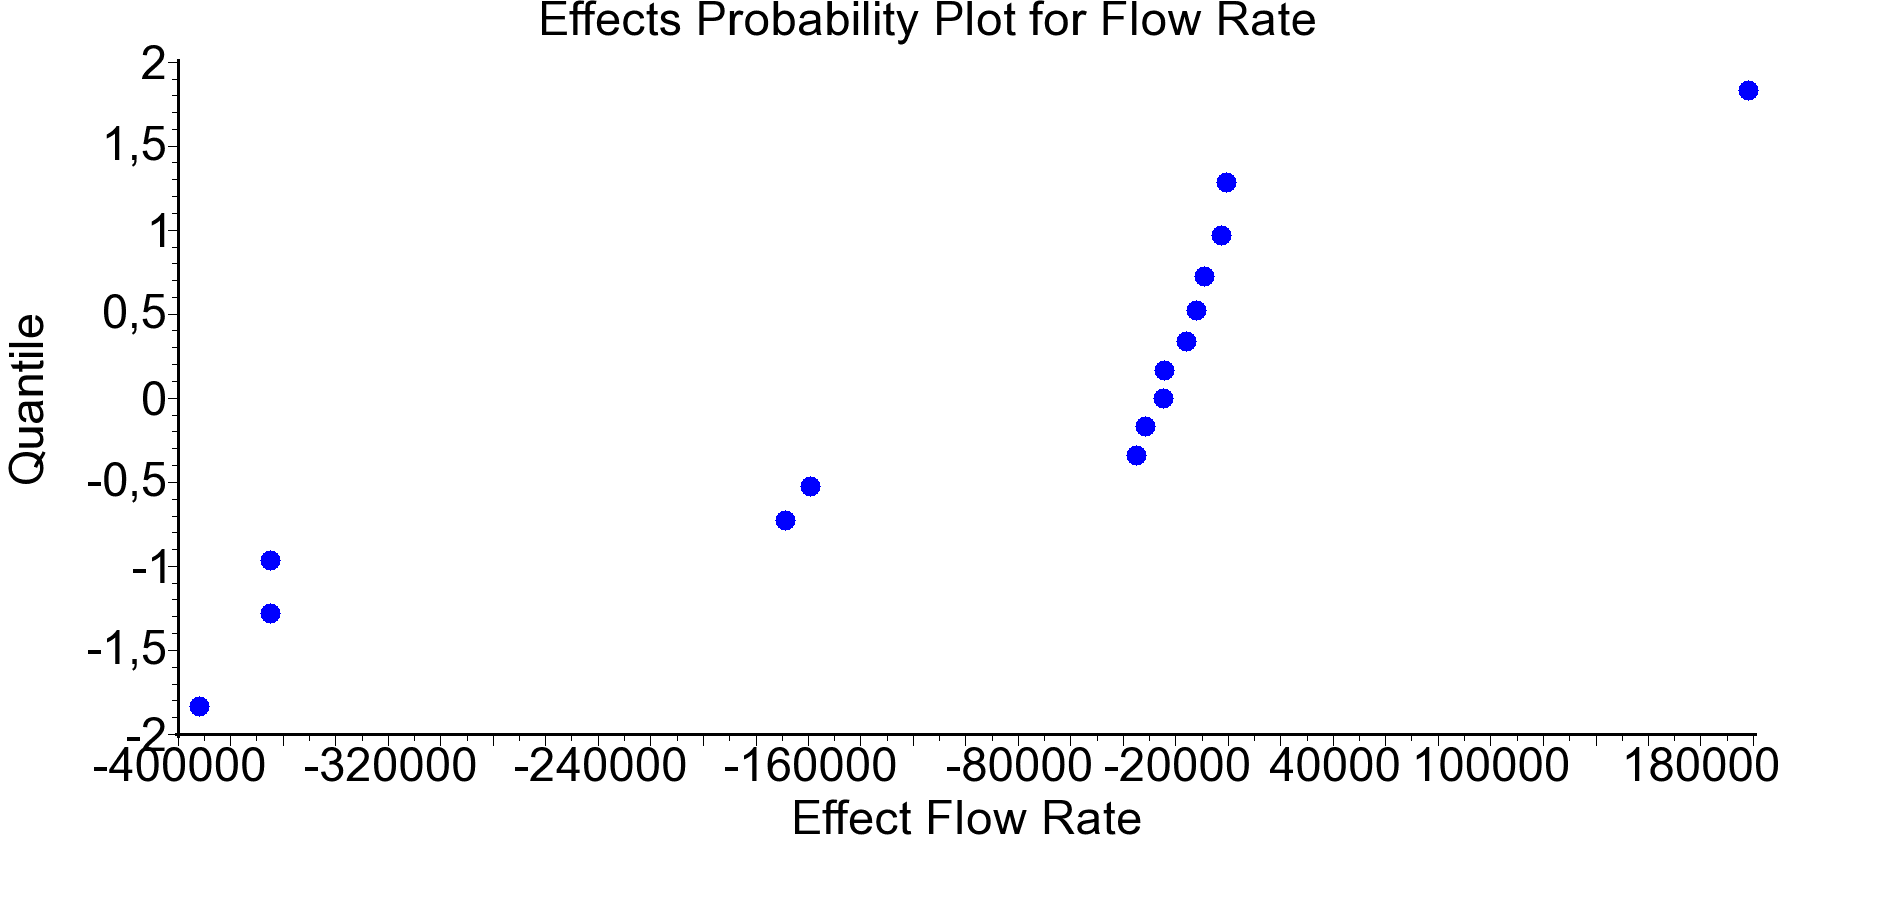
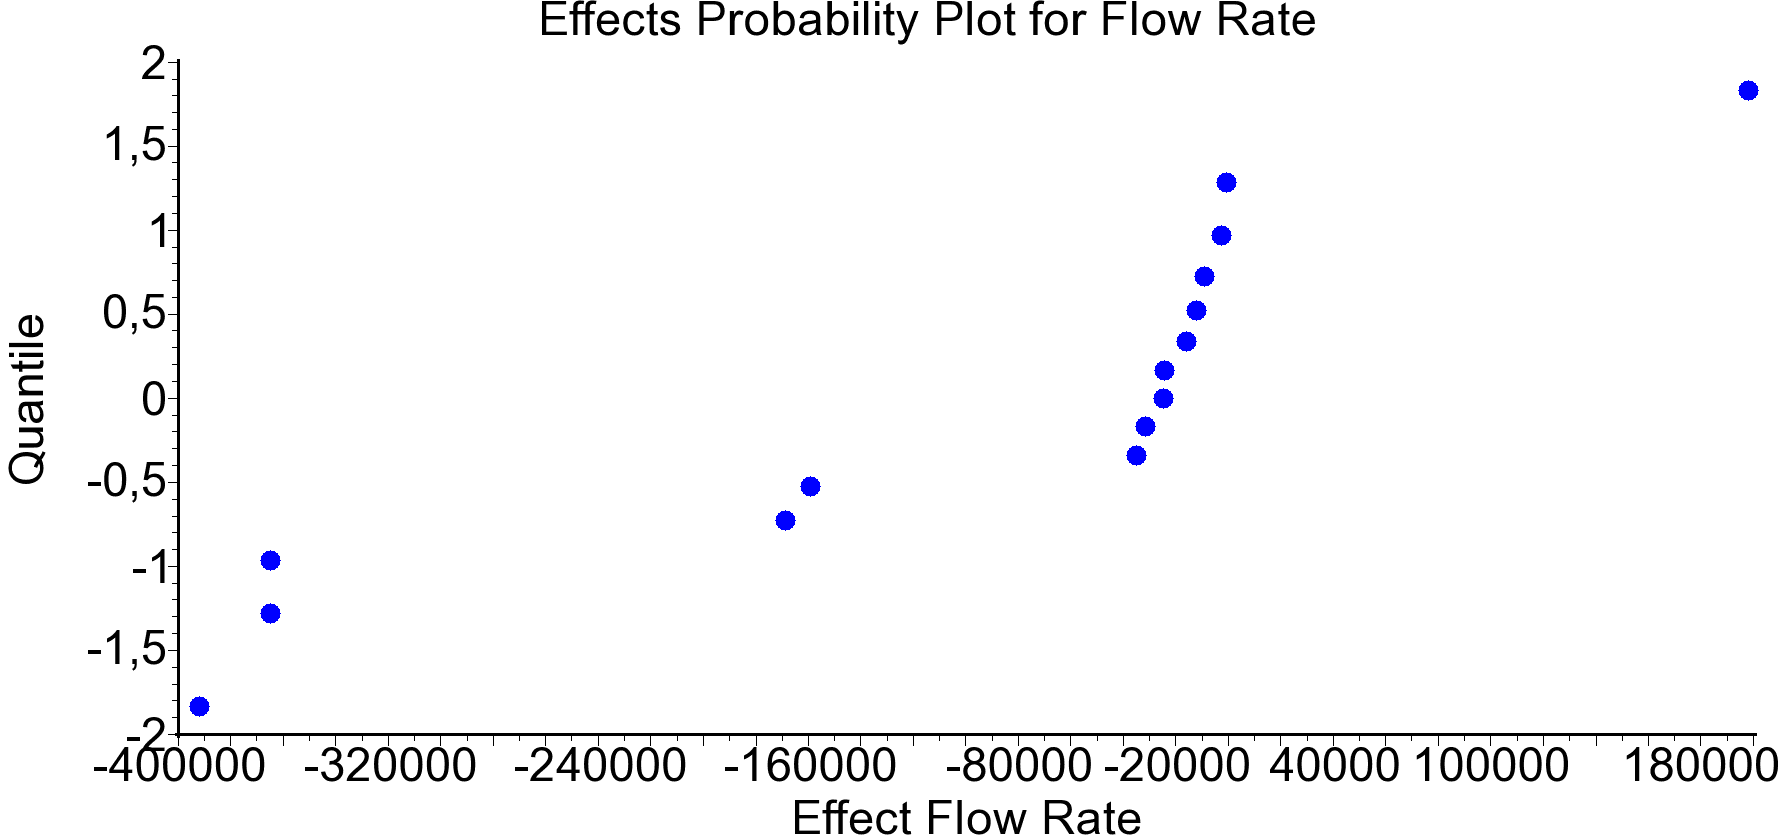
final

diff --git a/AppStat/final/sections/task1.tex b/AppStat/final/sections/task1.tex
@@ -12,18 +12,36 @@ It is intuitive to think that when the V112 is closed, the level of B102 is boun
 
 When the V112 is open, the tendecy depends on all the other factors. Explaining every case is time-consuming and uninteresting, therefore it will be omitted.
 
-Following two graphs demonstrate the outcome of the first run:
+Following table and two graphs demonstrate the outcome of the first run:
 
-\begin{figure}[h]
+\begin{table}[!h]
+    \begin{center}
+        \begin{tabular}{r|l}
+            effect & estimate\\
+            \cmidrule{1-2}
+            average & -35014 \\
+            \cmidrule{1-1}
+            main effects &  \\
+            \cmidrule{1-1}
+            \valve{112} & 391962 \\
+            \valve{104}& 198057 \\
+            Pump voltage& -365033 \\
+            Level \tank{102}& -365044 \\
+        \end{tabular}
+        \caption{Effects estimate}
+    \end{center}
+\end{table}
+
+\begin{figure}[!h]
 	\begin{center}
-		\includegraphics[scale=0.2]{effect_pareto}
+		\includegraphics[scale=0.4]{effect_pareto}
 	\end{center}
 	\caption{Effects Pareto}
 \end{figure}
 
-\begin{figure}[h]
+\begin{figure}[!h]
 	\begin{center}
-		\includegraphics[scale=0.2]{effect_probability_plot}
+		\includegraphics[scale=0.3]{effect_probability_plot}
 	\end{center}
 	\caption{Effects Probability Plot}
 \end{figure}

diff --git a/AppStat/final/sections/main.tex b/AppStat/final/sections/main.tex
@@ -12,7 +12,6 @@
 \usepackage{amssymb}
 \usepackage{makeidx}
 \usepackage{setspace}
-%\usepackage{parskip}
 
 \usepackage{graphicx}
 \graphicspath{{../pics/}}
